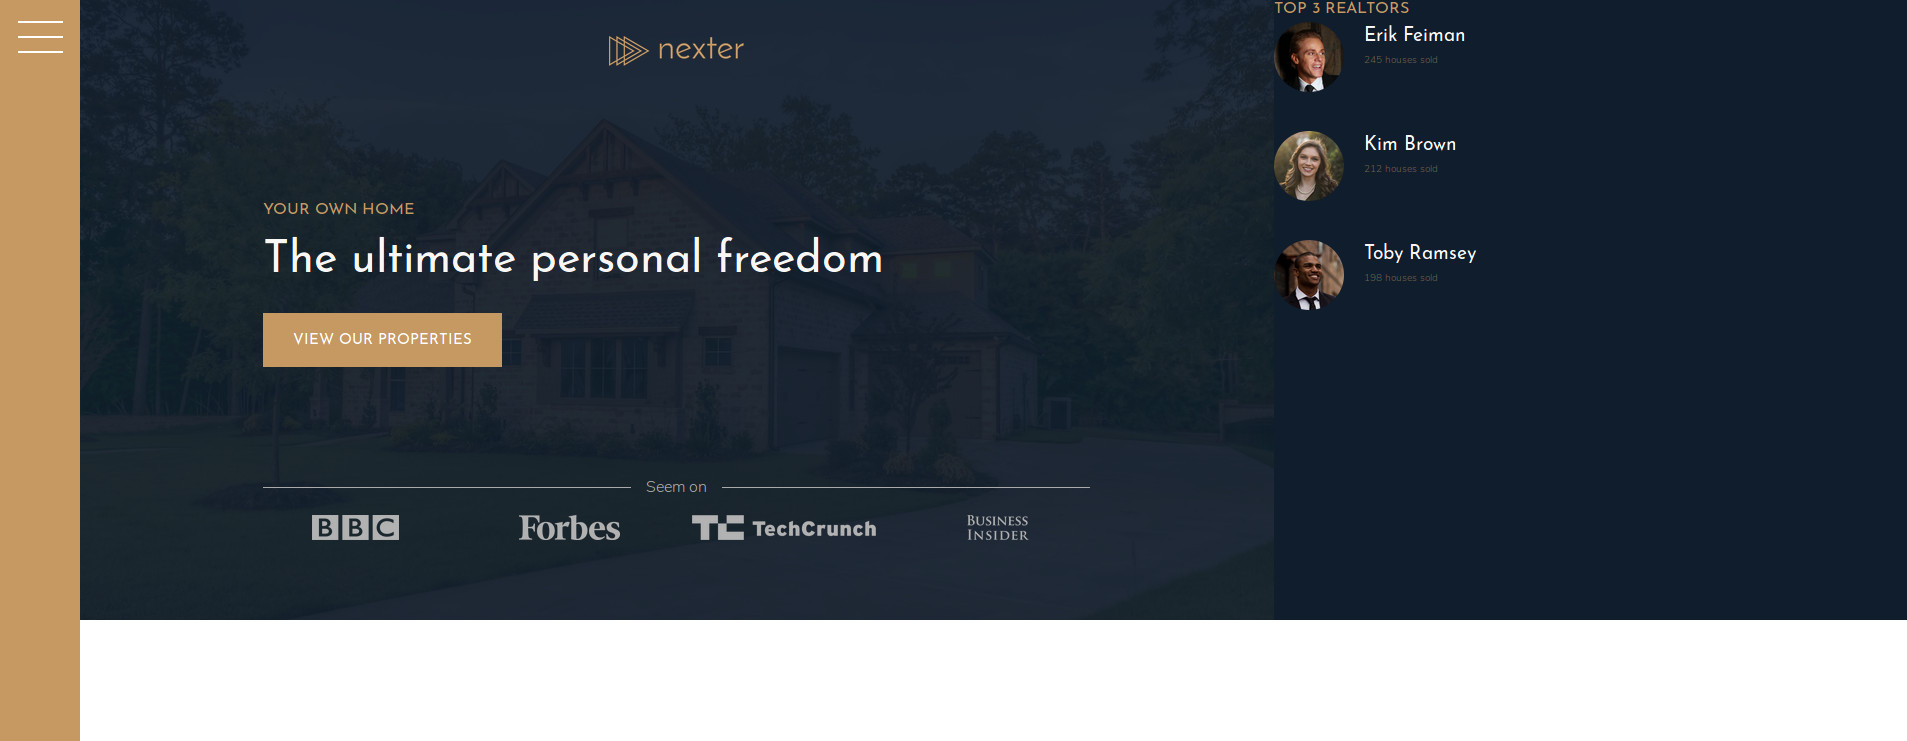
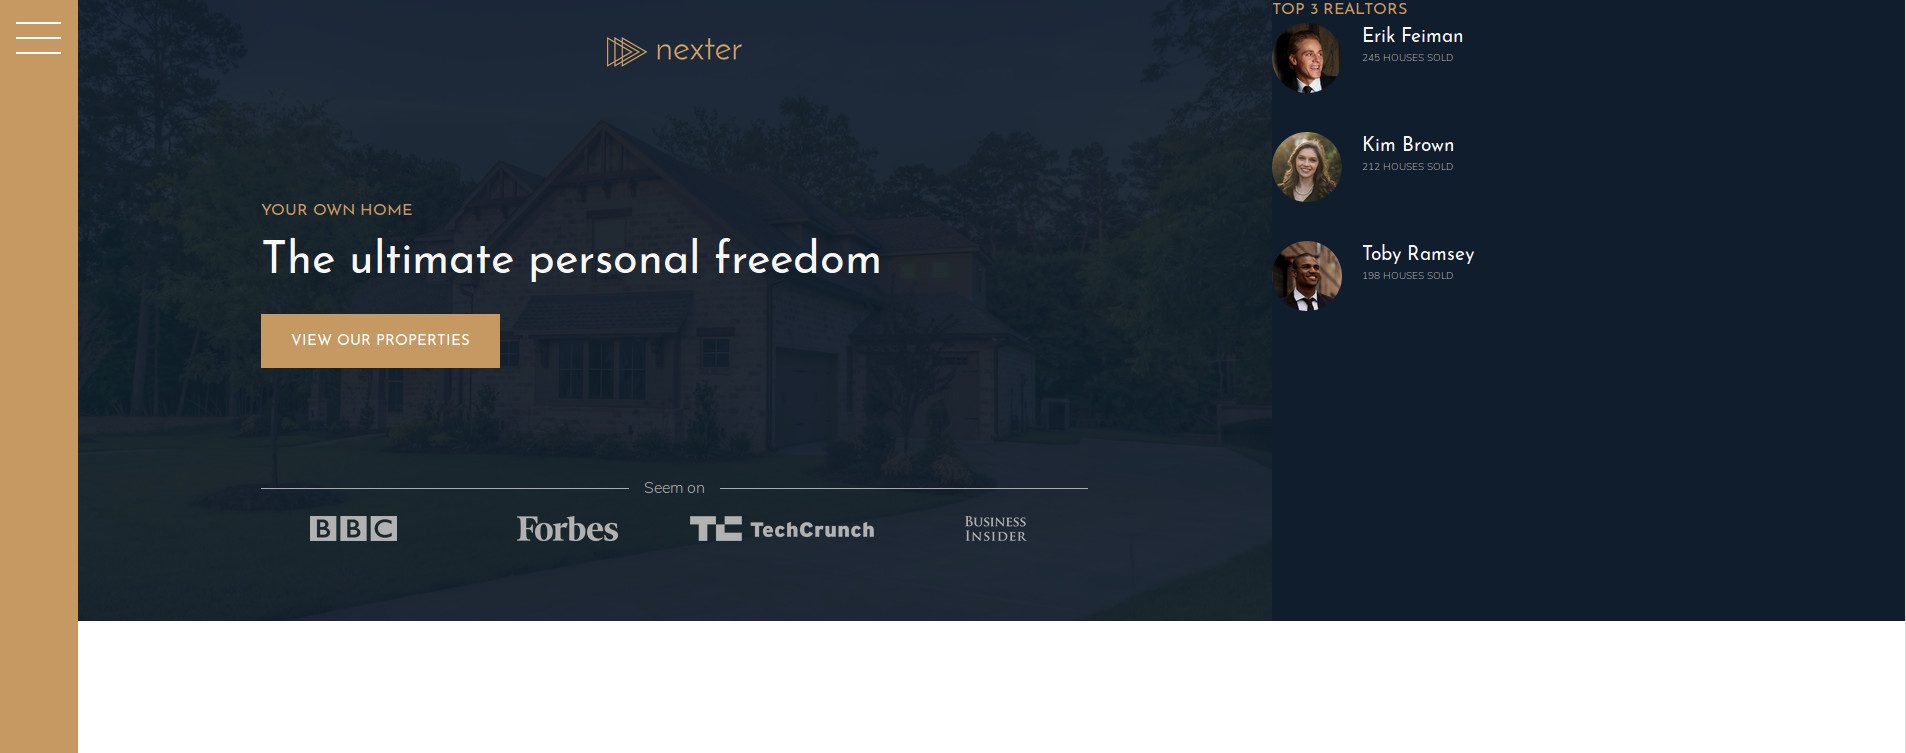
Style realtors__sold paragraph.

diff --git a/sass/_realtors.scss b/sass/_realtors.scss
@@ -16,6 +16,8 @@
   }
   
   &__sold {
-    
+    text-transform: uppercase;
+    color: $color-grey-light-2;
+    margin-top: -3px; 
   }
 }
